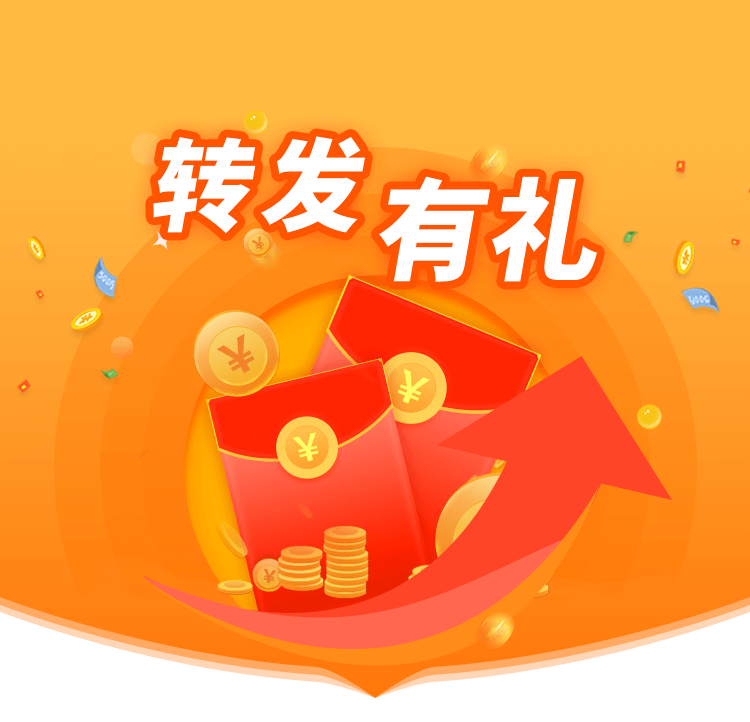
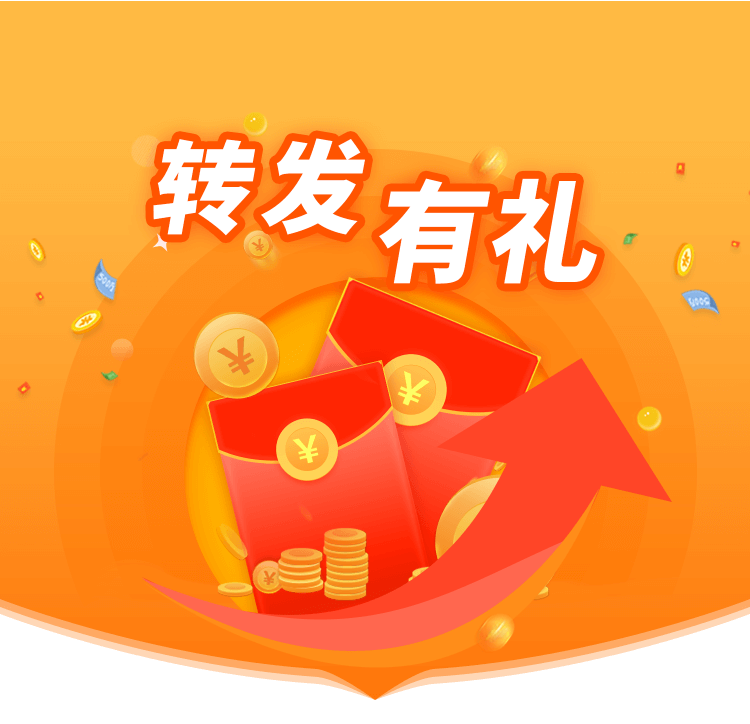
邀请规则页接口及背景图

diff --git a/src/views/personalcenter/sharerewards/shareroles/index.vue b/src/views/personalcenter/sharerewards/shareroles/index.vue
@@ -5,9 +5,6 @@
           <img class="back" @click="goback" src="./../../../../assets/imgs/shop/white-gd.png" alt />
           <div class="tit">活动说明</div>
       </div>
-      <div class="topbanner">
-        <img src="./../../../../assets/imgs/personal/share/sharerolesbanner.png" alt="">
-      </div>
       <div class="roleswrap-con">
         <div class="sharebigtext">
             <img src="./../../../../assets/imgs/personal/share/sharebigtext.png" alt="">
@@ -16,13 +13,13 @@
           <span class="tit">
             <img src="./../../../../assets/imgs/personal/share/sharetit01.png" alt="">
           </span>
-          <p>您邀请的用户在抓周平台通过赠送礼物、购买会员、坐骑、饰品等消费，您将获得<span>20%</span>的消费提成！</p>
+          <p>您邀请的用户在抓周平台通过赠送礼物、购买会员、坐骑、饰品等消费，您将获得<span>{{userPercentage}}%</span>的消费提成！</p>
         </div>
         <div class="txt-sec">
           <span class="tit">
             <img src="./../../../../assets/imgs/personal/share/sharetit02.png" alt="">
           </span>
-          <p>您邀请的主播在抓周平台获得收益，您将获得<span>10%</span>的收入提成！</p>
+          <p>您邀请的主播在抓周平台获得收益，您将获得<span>{{anchorPercentage}}%</span>的收入提成！</p>
         </div>
         <div class="txt-sec">
           <span class="tit">
@@ -44,6 +41,8 @@ export default {
   },
   data() {
     return {
+      userPercentage : 0, //邀请用户获得消费百分比
+      anchorPercentage : 0, //邀请主播获得消费百分比
       bodypaddingtop : 0, //客户端传来的top值 
       guildPageType : '', //从哪个页跳来的标识
       allTakeNum : 0,
@@ -57,6 +56,8 @@ export default {
     that.bodypaddingtop = that.$route.query.paddingtop;
     that.shareUserId = that.$route.query.shareUserId;
     that.webtype = that.$route.query.webtype;
+    that.getGlobalObtainProportion();
+    that.getGlobalObtainProportionAnchor();
   },
   methods: {
     // 返回上一页
@@ -75,6 +76,48 @@ export default {
             window.location.href = "http://test.testh5.zhulihr.com/share/shareregist.html?shareUserId=" + that.shareUserId + '&platform=1&sharetype=2';
           }, 800);
       }
+    },
+    //获取邀请用户-消费提成百分比
+    getGlobalObtainProportion(){
+      let that = this;
+      that.$toast.loading({
+            message: "加载中...",
+            duration: 200000
+          }); 
+          that.api.personalcenter.globalObtainProportion({
+            configKey : 'cashbackConsumption',
+            operatingOsType : -1,
+            moduleType : -1,
+            appType : 1
+          }).then(res => {
+            that.$toast.clear();
+            if(res.data.code === 1){
+              console.log('res比例');
+              console.log(res);
+              that.userPercentage = res.data.data * 100; 
+            }
+          });
+    },
+    //获取邀请主播-消费提成百分比
+    getGlobalObtainProportionAnchor(){
+      let that = this;
+      that.$toast.loading({
+            message: "加载中...",
+            duration: 200000
+          }); 
+          that.api.personalcenter.globalObtainProportion({
+            configKey : 'cashbackWithdrawal',
+            operatingOsType : -1,
+            moduleType : -1,
+            appType : 1
+          }).then(res => {
+            that.$toast.clear();
+            if(res.data.code === 1){
+              console.log('res比例2');
+              console.log(res);
+              that.anchorPercentage = res.data.data * 100; 
+            }
+          });
     }
   },
   // created() {

diff --git a/src/views/personalcenter/sharerewards/shareroles/css/index.less b/src/views/personalcenter/sharerewards/shareroles/css/index.less
@@ -4,10 +4,13 @@
     font-family: PingFang SC;
     font-weight: 500;
     padding-bottom: .64rem;
-    background: #ffba42;
+    background: #ffb43e url("./../../../../../assets/imgs/personal/share/sharerolesbanner.png") no-repeat center 0;
+    background-size: 7.5rem 7.22rem;
+    .header .tit{
+        padding: .3rem 0;
+    }
     .topbanner{
       width : 7.5rem;
-      padding-top: 1.2rem;
       img{
         width : 100%;
         height: 100%;
@@ -16,7 +19,7 @@
     .roleswrap-con{
         width: 6.5rem;
         min-height: 7.83rem;
-        margin: 0 auto;
+        margin: 5.93rem auto 0;
         padding: .8rem .25rem 0;
         background: url("./../../../../../assets/imgs/personal/share/bg-sharecon.png") no-repeat;
         background-size: 7.1rem 8.53rem;
@@ -70,8 +73,11 @@
   }
   .shareroleswrapapp{
     .header{
+        .tit{
+            padding: .1rem 0;
+        }
         img{
-            top: .75rem;
+            top: .58rem;
         }
     }
   }

diff --git a/src/api/personalcenter/index.js b/src/api/personalcenter/index.js
@@ -189,6 +189,10 @@ const personalcenter = {
     //获取提现记录和兑换记录页总金额
     walletStatisticalWithdrawlCount(params) {
         return axios.get(`${base.yxf2}/v1/user/wallet/statistical/withdrawal/count?userId=${params.userId}&type=${params.type}`);
+    },
+    //获取规则收益分成百分比
+    globalObtainProportion(params) {
+        return axios.get(`${base.yxf2}/v1/user/global/obtain/proportion?configKey=${params.configKey}&operatingOsType=${params.operatingOsType}&appType=${params.appType}&moduleType=${params.moduleType}`);
     }
 }
 
